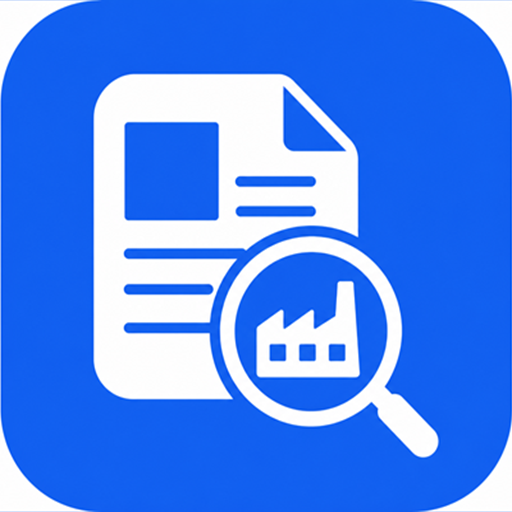
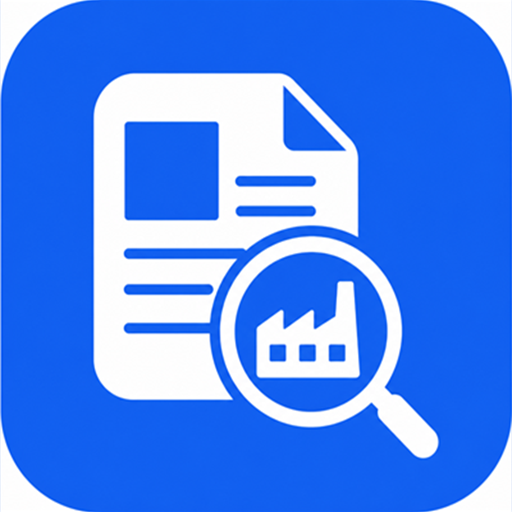
updated readme

diff --git a/docs/user-guide.md b/docs/user-guide.md
@@ -1,0 +1,155 @@
+# Contract manufacturing — User guide
+
+**Beta demo — not for production use.** This guide helps you install and try the demonstration prototype. The application is for evaluation and workshops only. It is not a finished product and is not supported for day-to-day business use.
+
+---
+
+## Before you download
+
+### What this application is
+
+Contract manufacturing is a **Windows desktop demo** that shows how engineers can find similar past manufacturing projects and reuse drawings, steps, and knowledge when preparing new jobs.
+
+It answers one question: **"Have we manufactured something like this before?"**
+
+The installer includes **sample project data** so you can explore the full workflow immediately — no setup required.
+
+### What this application is not
+
+- **Not a production system** — do not rely on it for real quotations or live customer work.
+- **Not officially supported software** — features may change or be removed without notice.
+- **Not connected to your company data** — unless you deliberately point it at your own project folders in Settings (optional, for advanced demos).
+
+If you need a guided walkthrough or want to discuss a real implementation, email [[email redacted]](mailto:[email redacted]?subject=Demo%20-%20Contract%20manufacturing).
+
+---
+
+## What you need
+
+| Requirement | Details |
+|-------------|---------|
+| **Computer** | Windows 10 or Windows 11, 64-bit |
+| **Install rights** | You need permission to install software (administrator rights). Running the app after install does not require admin rights. |
+| **Internet** | Only needed to download the installer. The demo works offline after installation. |
+| **Microsoft Edge WebView2** | Required for PDF previews. Usually already installed on Windows 11. On Windows 10, install it from [Microsoft](https://developer.microsoft.com/microsoft-edge/webview2/) if the app shows an error about WebView2. |
+
+You do **not** need to install .NET or any other development tools.
+
+---
+
+## Download
+
+1. Open the download page: [Latest release](https://github.com/HeckelRobert/quotation-knowledge-assistant/releases/latest)
+2. Under **Assets**, click **Contract manufacturing Setup.msi** to download the installer.
+
+Direct link: [Download latest installer (MSI)](https://github.com/HeckelRobert/quotation-knowledge-assistant/releases/latest/download/Contract%20manufacturing%20Setup.msi)
+
+---
+
+## Install
+
+1. Open your **Downloads** folder and double-click **Contract manufacturing Setup.msi**.
+2. If Windows shows a security warning ("Windows protected your PC"):
+   - Click **More info**
+   - Click **Run anyway**  
+   This appears because the demo installer is not code-signed. It is safe for evaluation purposes from Heckel Informatik.
+3. Follow the installation wizard:
+   - Accept the license agreement (beta demonstration terms).
+   - Choose an install location if prompted, or keep the default.
+   - Click **Install**, then **Finish**.
+4. The installer creates a **desktop shortcut** and a **Start menu** entry named **Contract manufacturing**.
+
+---
+
+## Open the application
+
+After installation, start the app in either way:
+
+- Double-click the **Contract manufacturing** shortcut on your desktop, or
+- Open the Windows **Start** menu, find **Contract manufacturing**, and click it.
+
+On first launch, the app loads bundled sample projects automatically. You do not need to configure anything to try the demo.
+
+---
+
+## Try the built-in demo (about 5 minutes)
+
+Follow these steps to see the main workflow.
+
+### Step 1 — Enter an inquiry
+
+1. Click the **Inquiry** tab at the top.
+2. Enter or select these example values:
+   - **Material:** Stainless Steel 1.4301
+   - **Surface treatment:** Powder Coated
+   - **Quantity:** 20
+   - **Description:** Stainless enclosure
+3. Click **Analyze Inquiry**.
+
+![Inquiry — review and analyze customer request](images/inquiry.png)
+
+### Step 2 — Review similar past projects
+
+1. The app opens the **Results** tab (you may also see it labelled **Catalog** in some views).
+2. Review the **top 3 similar projects** with similarity scores and short explanations.
+3. Select the best match (for example **PRJ-2019-0142**).
+4. Try **Open project folder** or **Open drawing** to view files from that past job.
+5. Use the drawing preview panel to inspect the PDF.
+
+![Catalog — review matches from historical projects](images/catalog.png)
+
+### Step 3 — Review the contract manufacturing draft
+
+1. Click the **Contract manufacturing** tab.
+2. Scroll through the suggested **manufacturing steps** and the **contract manufacturing draft**.
+3. Edit text if you like, then use **Copy to clipboard** to copy content into another document.
+
+![Contract manufacturing workspace](images/contract-manufacturing-workspace.png)
+
+### Optional — Explore the Inbox
+
+The **Inbox** tab demonstrates email integration (requires Microsoft 365 configuration in Settings). For a quick demo, the Inquiry workflow above is enough.
+
+![Inbox — retrieve and respond to customer inquiries](images/inbox.png)
+
+---
+
+## Change the language
+
+The default language is **German**. To switch to English:
+
+1. Click the **Settings** tab.
+2. Change **UI language** to **English**.
+3. The interface updates immediately.
+
+---
+
+## Uninstall
+
+When you no longer need the demo:
+
+1. Open **Windows Settings**.
+2. Go to **Apps** → **Installed apps** (or **Apps & features** on Windows 10).
+3. Find **Contract manufacturing**, click the menu (⋯), and choose **Uninstall**.
+4. Follow the prompts.
+
+---
+
+## When something goes wrong
+
+| Problem | What to try |
+|---------|-------------|
+| **Windows blocks the installer** | Click **More info** → **Run anyway**, or ask your IT department to allow the install for your demo session. |
+| **Install fails — access denied** | You need administrator rights to install. Ask IT to install it for you, or use an account with install permissions. |
+| **App will not start — WebView2 error** | Install [Microsoft Edge WebView2 Runtime](https://developer.microsoft.com/microsoft-edge/webview2/). |
+| **PDF preview is blank** | Install WebView2, or use **Open drawing** to view the PDF in your default PDF viewer. |
+| **No projects shown** | On first run, sample data should load automatically. Open **Settings** and click **Rescan Projects**, or restart the application. |
+| **Something else** | Email [[email redacted]](mailto:[email redacted]?subject=Contract%20manufacturing%20demo%20help) with a short description of what happened. |
+
+---
+
+## Need help or a live demo?
+
+Email [[email redacted]](mailto:[email redacted]?subject=Demo%20-%20Contract%20manufacturing) to request a guided demonstration or to discuss how this prototype could fit your manufacturing process.
+
+No commitment required.

diff --git a/docs/operations.md b/docs/operations.md
@@ -7,7 +7,7 @@ Handbook version: **v1.3.1**
 | Environment | Purpose | Location |
 |-------------|---------|----------|
 | Development | Local build and test | Developer workstation |
-| Demonstration | Workshops and management demos | Extracted portable ZIP on business laptop |
+| Demonstration | Workshops and management demos | MSI install on business laptop |
 | Production | Not applicable for pilot | — |
 
 There is no cloud hosting, staging URL, or Azure infrastructure for this pilot.
@@ -18,22 +18,25 @@ There is no cloud hosting, staging URL, or Azure infrastructure for this pilot.
 
 ### Distribution format
 
-Primary deliverable: portable ZIP archive.
+Primary deliverable: **MSI installer** published via [GitHub Releases](https://github.com/HeckelRobert/quotation-knowledge-assistant/releases).
 
 ```text
-QuotationAccelerator-v{version}-win-x64.zip
-├── Contract manufacturing.exe
-├── sample-data/
-├── appsettings.json
-├── quotation-accelerator.db    (created on first run if missing)
-└── README.md
+Contract manufacturing Setup.msi
+└── Installs to Program Files:
+    ├── Contract manufacturing.exe
+    ├── sample-data/
+    ├── appsettings.json
+    └── quotation-accelerator.db    (created on first run if missing)
 ```
+
+End users download the MSI from the README or Releases page. A portable ZIP build is no longer the primary distribution path for demos; developers can still build the MSI locally with `scripts/publish-installer.ps1`.
 
 ### Prerequisites (target machine)
 
 | Prerequisite | Required | Notes |
 |--------------|----------|-------|
 | Windows 10 or 11 x64 | Yes | |
+| Administrator rights | Yes (install only) | Per-machine MSI install under Program Files |
 | WebView2 Runtime | Yes | For embedded PDF preview |
 | .NET runtime | Bundled | Self-contained publish |
 | Ollama | No | Recommended for Hybrid demo path |
@@ -41,9 +44,9 @@ QuotationAccelerator-v{version}-win-x64.zip
 
 ### Deployment steps
 
-1. Download `QuotationAccelerator-v{version}-win-x64.zip` from release assets.
-2. Extract to any writable local folder (no admin rights required).
-3. Run `Contract manufacturing.exe`.
+1. Download **Contract manufacturing Setup.msi** from [GitHub Releases](https://github.com/HeckelRobert/quotation-knowledge-assistant/releases/latest) (see [user guide](user-guide.md) for non-technical steps).
+2. Run the installer and complete the wizard (requires administrator rights).
+3. Start **Contract manufacturing** from the Start menu or desktop shortcut.
 4. On first launch, bundled `sample-data/` is used automatically if no project root is configured.
 5. Optionally install Ollama and pull recommended models:
 
@@ -57,14 +60,18 @@ QuotationAccelerator-v{version}-win-x64.zip
 ### Rollback
 
 1. Close the application.
-2. Delete the extracted folder.
-3. Extract a previous ZIP version if needed.
+2. Uninstall via **Windows Settings → Apps**, or install a previous MSI release from GitHub Releases.
 
-No uninstaller is required.
+### Release process (project team)
 
-### Future installer (optional)
+Push a version tag to trigger the release workflow:
 
-MSI package may be introduced in a later version for IT-managed deployment. Not required for pilot.
+```powershell
+git tag v0.1.0
+git push origin v0.1.0
+```
+
+The workflow runs tests, builds the MSI, and publishes it to GitHub Releases. See `.github/workflows/release.yml`.
 
 ---
 
@@ -103,12 +110,12 @@ Configuration is stored in `quotation-accelerator.db` and defaults in `appsettin
 
 | Asset | Procedure |
 |-------|-----------|
-| Application + settings | Copy entire extracted application folder |
+| Application + settings | Reinstall MSI, or copy `%ProgramFiles%\Contract manufacturing\` including `quotation-accelerator.db` |
 | Historical projects | Backup project root file share separately (out of app scope) |
 
 ### Restore
 
-1. Restore application folder or re-extract ZIP.
+1. Reinstall from MSI, or restore the install folder under Program Files.
 2. Restore `quotation-accelerator.db` if settings and index should be preserved.
 3. Point project root to valid `PRJ-*` directory in **Settings**.
 
@@ -131,7 +138,7 @@ Configuration is stored in `quotation-accelerator.db` and defaults in `appsettin
 
 | Area | Owner |
 |------|-------|
-| Portable ZIP build and release | Project team |
+| MSI build and GitHub release | Project team (tag push triggers `.github/workflows/release.yml`) |
 | Demo laptop setup | Presenter / customer IT |
 | Ollama installation | End user |
 | Real customer data in live demos | Presenter (GDPR responsibility) |
@@ -144,3 +151,4 @@ Configuration is stored in `quotation-accelerator.db` and defaults in `appsettin
 | Version | Date | Change |
 |---------|------|--------|
 | 0.1 | 2026-06-21 | Initial operations document for portable desktop pilot |
+| 0.2 | 2026-06-29 | MSI via GitHub Releases as primary distribution; user guide added |

diff --git a/README.md b/README.md
@@ -1,5 +1,7 @@
 # Contract manufacturing
 
+> **Beta demo — not for production use.** This is a prototype for evaluation and workshops only. It uses sample data, may change without notice, and is not a supported product.
+
 **Built for engineers** who prepare *Lohnfertigung* (contract manufacturing) from customer drawings — find similar past projects in seconds and reuse drawings, manufacturing steps, and historical job knowledge instead of starting from zero.
 
 **The question it answers:** *Have we manufactured something like this before?*
@@ -59,6 +61,16 @@ No commitment required — just tell us briefly what you manufacture and we will
 
 ## Or try it yourself
 
+**New to the app?** Follow the [step-by-step user guide](docs/user-guide.md) (non-technical, install and demo walkthrough).
+
+### Download
+
+| | |
+|---|---|
+| **Installer (recommended)** | [Download latest MSI](https://github.com/HeckelRobert/quotation-knowledge-assistant/releases/latest/download/Contract%20manufacturing%20Setup.msi) |
+| **All versions** | [GitHub Releases](https://github.com/HeckelRobert/quotation-knowledge-assistant/releases) |
+| **Detailed instructions** | [User guide](docs/user-guide.md) |
+
 ### Requirements
 
 - Windows 10 or 11 (64-bit)
@@ -66,11 +78,11 @@ No commitment required — just tell us briefly what you manufacture and we will
 
 ### Install and run
 
-1. Download **`Contract manufacturing Setup.msi`** (from your Heckel contact, or build it yourself — see [For developers](#for-developers) below).
-2. Double-click the installer and complete the wizard.
+1. Download **Contract manufacturing Setup.msi** using the link above.
+2. Double-click the installer and complete the wizard (see the [user guide](docs/user-guide.md) if Windows shows a security warning).
 3. Start **Contract manufacturing** from the desktop shortcut or the Windows Start menu.
 
-Uninstall later via **Windows Settings → Apps** if needed.
+Uninstall later via **Windows Settings → Apps**. Full details: [user guide — Uninstall](docs/user-guide.md#uninstall).
 
 > The technical repository and build identifiers may still use the name `QuotationAccelerator`.
 
@@ -159,6 +171,17 @@ dotnet build installer/QuotationAccelerator.Installer.wixproj -c Release
 
 MSI path: `installer/bin/Release/Contract manufacturing Setup.msi`
 
+### Publish a GitHub release
+
+Tag a version to build the MSI and publish it to GitHub Releases automatically:
+
+```powershell
+git tag v0.1.0
+git push origin v0.1.0
+```
+
+The release workflow uploads **Contract manufacturing Setup.msi** as a download asset. End users get it from [Releases](https://github.com/HeckelRobert/quotation-knowledge-assistant/releases/latest).
+
 ## Solution structure
 
 ```text
@@ -177,6 +200,7 @@ tests/               Unit and architecture tests
 
 ## Documentation
 
+- [User guide](docs/user-guide.md) — install and demo walkthrough (non-technical)
 - [Requirements](docs/requirements.md)
 - [Architecture](docs/architecture.md)
 - [Security](docs/security.md)